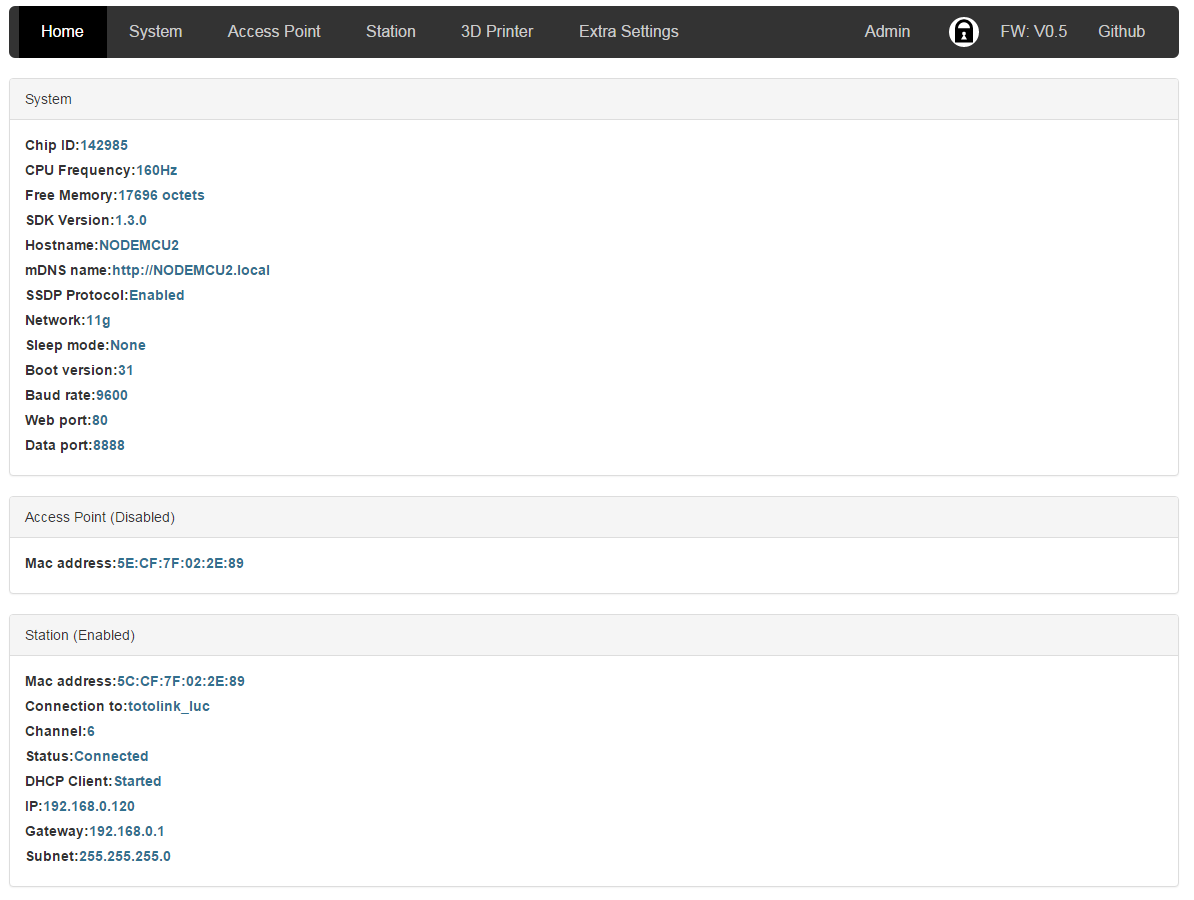
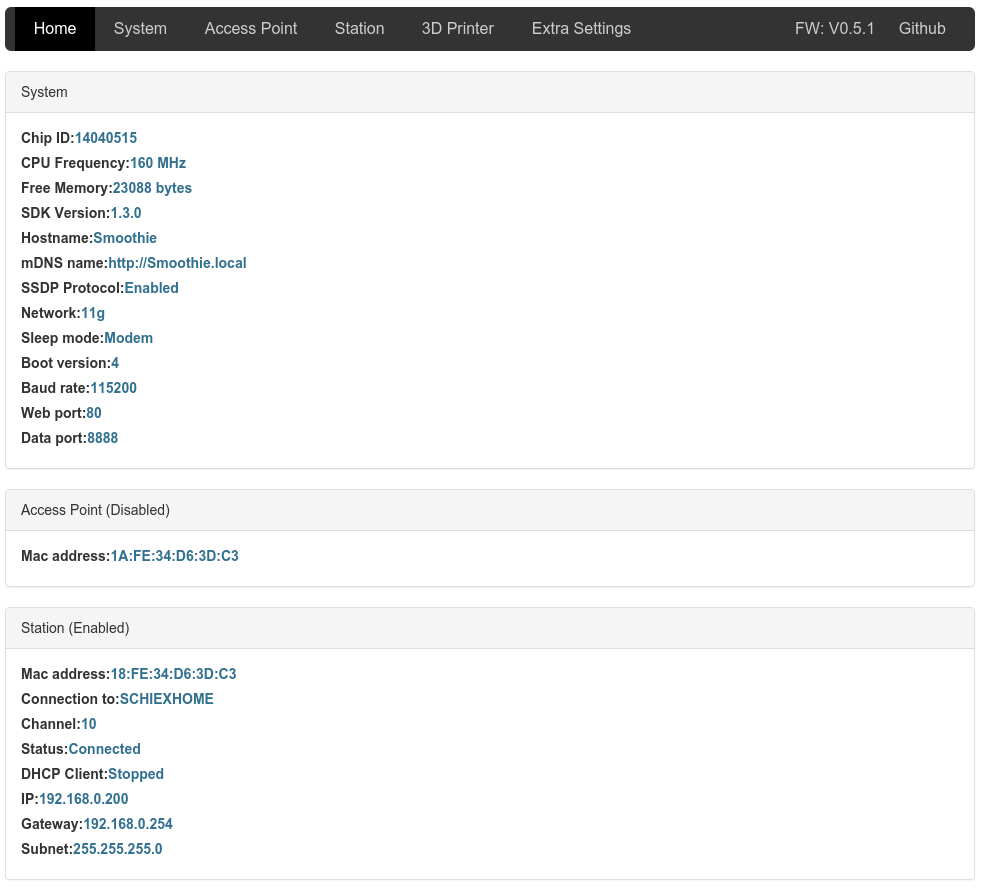
T Reepleks flavoring, with kudos to luc.

diff --git a/README.md b/README.md
@@ -1,20 +1,19 @@
 # ESP8266
 
-[![Join the chat at https://gitter.im/luc-github/ESP8266](https://badges.gitter.im/Join%20Chat.svg)](https://gitter.im/luc-github/ESP8266?utm_source=badge&utm_medium=badge&utm_campaign=pr-badge&utm_content=badge)
-FW for ESP8266 used with 3D printer     
+FW for ESP8266 used with 3D printer running Smoothieware     
 
 Arduino ide 1.6.5 with latest master from ESP8266 : [![Build Status](https://travis-ci.org/luc-github/ESP8266.svg?branch=master)](https://travis-ci.org/luc-github/ESP8266)    
 
 ##Description      
 Thanks to @luc-github for bringing this idea to life on Repetier.
 
-Have a bridge configurable by web and optionally by printer (not yet implemented)  
-Have a front end to know what is the wifi status or know what is the print status (not yet implemented) - this part can be optional and removed by compilation directive if no need
+To have a bridge configurable by web and optionally by printer (not yet implemented)  
+To have a front end to know what is the wifi status or know what is the print status (not yet implemented) - this part can be optional and removed by compilation directive if no need
 
-Only aim is to make this compatible to with Smoothieware, as far as possible.
+The only aim is to make this compatible with Smoothieware, as far as possible.
 Many things in the Repetier version do not work yet with Smoothieware (marked as non-smooth below).
 
-For master to work, you have to use the 2.0.0 verion of https://github.com/esp8266/arduino (https://github.com/esp8266/Arduino#using-git-version-) and work under Windows (the 64 bits Linux version does not compile the firmware correctly).
+For master to work, you have to use the 2.0.0 version of https://github.com/esp8266/arduino (https://github.com/esp8266/Arduino#using-git-version-) and work under Windows (the 64 bits Linux version does not compile the firmware correctly).
 
 If you use an ESP with 512K flash like ESP01 please go here : https://github.com/treepleks/ESP8266/tree/ESP-512K-64KSPIFFS, it is dedicated to low memory device.      
 If you use an ESP with more than 512K flash, please use master.      
@@ -83,17 +82,18 @@ Access Point Configuration Page:
 <img src=https://raw.githubusercontent.com/treepleks/ESP8266/master/Page3.png><br>     
 Client Configuration Page:     
 <img src=https://raw.githubusercontent.com/treepleks/ESP8266/master/Page4.png><br>     
-Printer Status Page for 64K SPIFFS, due to limited space available no fancy:     
-<img src=https://raw.githubusercontent.com/treepleks/ESP8266/master/Page5-2.png><br>    
-Printer Status Page for more than 64K SPIFFS, fancy one:     
+Fancy Printer Status Page for more ESPmodules with more than 512K Flash:     
 <img src=https://raw.githubusercontent.com/treepleks/ESP8266/master/page5.png><br>     
+Dull Printer Status Page for 512K Flash modules:     
+<img src=https://raw.githubusercontent.com/treepleks/ESP8266/master/Page5-2.png><br>    
 Extra Settings Page, for web UI and for printer:     
 <img src=https://raw.githubusercontent.com/treepleks/ESP8266/master/Page6.png><br>     
 Change password Page:    
 <img src=https://raw.githubusercontent.com/treepleks/ESP8266/master/Page7.png><br>     
 Login Page:    
 <img src=https://raw.githubusercontent.com/treepleks/ESP8266/master/Page8.png><br>     
-the template files are stored on SPIFFS:    
+
+All template files are stored on SPIFFS:    
 <img src=https://raw.githubusercontent.com/treepleks/ESP8266/master/files.png><br>
 and uploaded using [IDE](http://arduino.esp8266.com/versions/1.6.5-1160-gef26c5f/doc/reference.html#file-system)    
 The list of keywords can be find here : https://github.com/treepleks/ESP8266/blob/master/keywords.txt     
